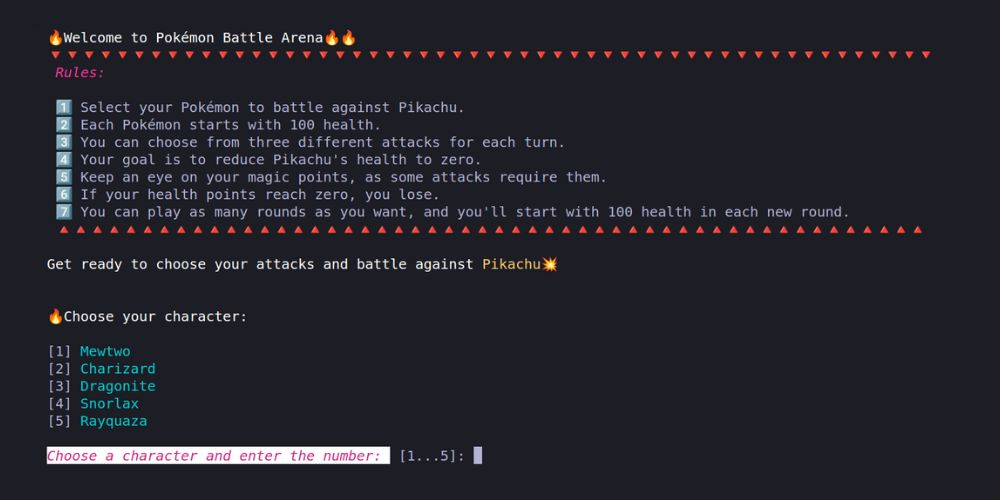
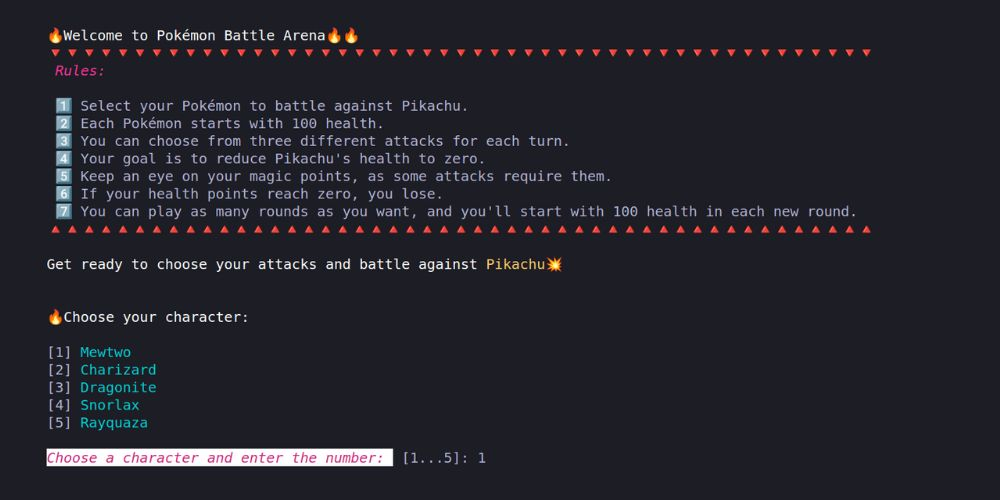
Modified README.md and text color, changed readme_image 1 & 2

diff --git a/index.js b/index.js
@@ -37,7 +37,9 @@ class Pokemon {
         );
       } else {
         console.log(
-          `\n${this.name} doesn't have enough magic to use ${selectedAttack.attack}.`
+          chalk.whiteBright(
+            `\n${this.name} doesn't have enough magic to use ${selectedAttack.attack}.`
+          )
         );
         const getMagic = () => {
           const magicByRandomNumber = Math.floor(Math.random() * 21);
@@ -46,14 +48,18 @@ class Pokemon {
         };
         const extraMagic = getMagic();
         console.log(
-          `Instead ${this.name} recharges ${extraMagic} points of magic🔥\n`
+          chalk.whiteBright(
+            `Instead ${this.name} recharges ${extraMagic} points of magic🔥\n`
+          )
         );
       }
     }
   }
 
   showStatus() {
-    return `🔹${this.name} - Health: ${this.health} / Magic: ${this.magic}`;
+    return chalk.magentaBright(
+      `🔹${this.name} - Health: ${this.health} / Magic: ${this.magic}`
+    );
   }
 }
 
@@ -105,12 +111,12 @@ const players = [mewtwo, charizard, dragonite, snorlax, rayquaza];
 // Select an attack
 const selectedAttackByPlayer = (player) => {
   console.log(chalk.whiteBright(`\n🔥Choose an attack for ${player.name}:`));
-  
+
   const attackNames = player.attacks.map((attack) =>
-  chalk.cyan(
-    `${attack.attack} - ${attack.damage} damage / ${attack.magic} magic`
+    chalk.cyan(
+      `${attack.attack} - ${attack.damage} damage / ${attack.magic} magic`
     )
-    );
+  );
 
   const attackIndex = readline.keyInSelect(
     attackNames,
@@ -123,10 +129,9 @@ const selectedAttackByPlayer = (player) => {
 };
 
 const randomAttackByComputer = (opponent) => {
-    const randomIndex = Math.floor(Math.random() * opponent.attacks.length);
-    return opponent.attacks[randomIndex];
-  };
-  
+  const randomIndex = Math.floor(Math.random() * opponent.attacks.length);
+  return opponent.attacks[randomIndex];
+};
 
 // Main Game
 let playAgain = false;
@@ -136,7 +141,7 @@ do {
   if (!playAgain) {
     console.log(chalk.whiteBright(`\n🔥Welcome to Pokémon Battle Arena🔥🔥`));
     console.log(
-      `🔻🔻🔻🔻🔻🔻🔻🔻🔻🔻🔻🔻🔻🔻🔻🔻🔻🔻🔻🔻🔻🔻🔻🔻🔻🔻🔻🔻🔻🔻🔻🔻🔻🔻🔻🔻🔻🔻🔻🔻🔻🔻🔻🔻🔻🔻🔻🔻🔻🔻🔻🔻🔻`
+      `🔻🔻🔻🔻🔻🔻🔻🔻🔻🔻🔻🔻🔻🔻🔻🔻🔻🔻🔻🔻🔻🔻🔻🔻🔻🔻🔻🔻🔻🔻🔻🔻🔻🔻🔻🔻🔻🔻🔻🔻🔻🔻🔻🔻🔻🔻🔻🔻🔻`
     );
     console.log(chalk.italic.redBright(` Rules:`));
     console.log(`
@@ -147,7 +152,7 @@ do {
  5⃣  Keep an eye on your magic points, as some attacks require them.
  6⃣  If your health points reach zero, you lose.
  7⃣  You can play as many rounds as you want, and you'll start with 100 health in each new round.
- 🔺🔺🔺🔺🔺🔺🔺🔺🔺🔺🔺🔺🔺🔺🔺🔺🔺🔺🔺🔺🔺🔺🔺🔺🔺🔺🔺🔺🔺🔺🔺🔺🔺🔺🔺🔺🔺🔺🔺🔺🔺🔺🔺🔺🔺🔺🔺🔺🔺🔺🔺🔺\n`);
+🔺🔺🔺🔺🔺🔺🔺🔺🔺🔺🔺🔺🔺🔺🔺🔺🔺🔺🔺🔺🔺🔺🔺🔺🔺🔺🔺🔺🔺🔺🔺🔺🔺🔺🔺🔺🔺🔺🔺🔺🔺🔺🔺🔺🔺🔺🔺🔺🔺\n`);
     console.log(
       chalk.whiteBright(
         `Get ready to choose your attacks and battle against ` +
@@ -156,32 +161,31 @@ do {
     );
   }
 
-// Select Pokémon Character
-const selectedCharacter = (players) => {
-  console.log(chalk.whiteBright(`\n🔥Choose your character:`));
-  const playerIndex = readline.keyInSelect(
-    players.map((player) => chalk.cyan(player.name)),
-    chalk.bgWhiteBright.redBright.italic(
-      "Choose a character and enter the number: "
-    ),
-    {cancel: false}
-  );
-  return players[playerIndex];
+  // Select Pokémon Character
+  const selectedCharacter = (players) => {
+    console.log(chalk.whiteBright(`\n🔥Choose your character:`));
+    const playerIndex = readline.keyInSelect(
+      players.map((player) => chalk.cyan(player.name)),
+      chalk.bgWhiteBright.redBright.italic(
+        "Choose a character and enter the number: "
+      ),
+      {cancel: false}
+    );
+    return players[playerIndex];
   };
 
+  const player = selectedCharacter(players);
+  player.health = 100;
 
-const player = selectedCharacter(players)
-player.health = 100
-
-const opponent = pikachu;
-
+  const opponent = pikachu;
 
   readline.question(
-    chalk.bgWhiteBright.redBright.italic("\nPress enter to start a battle💥💥💥")
+    chalk.bgWhiteBright.redBright.italic(
+      "\nPress enter to start a battle💥💥💥"
+    )
   );
-  
-  while (player.isAlive() && opponent.isAlive()) {
 
+  while (player.isAlive() && opponent.isAlive()) {
     const playerAttack = selectedAttackByPlayer(player);
     const computerAttack = randomAttackByComputer(opponent);
 
@@ -200,14 +204,12 @@ const opponent = pikachu;
     }
   }
 
-  playAgain = readline.keyInYN(
-    chalk.redBright("\nDo you want to play again?")
-  );
+  playAgain = readline.keyInYN(chalk.redBright("\nDo you want to play again?"));
   if (playAgain) {
-    opponent.health = 100
+    opponent.health = 100;
     console.log("Recharging you to 100 health💥");
     console.clear();
   } else {
-    console.log("\nIt was fun! See you next time👋\n");
+    console.log(chalk.whiteBright("\nIt was fun! See you next time👋\n"));
   }
 } while (playAgain);
